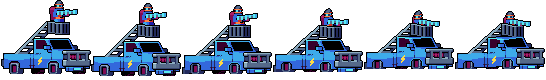
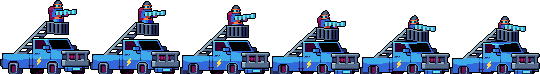
Fixed enemies spawn and animations

diff --git a/core/src/com/mygdx/game/animation/concrete/enemies/CarEnemyAnimator.java b/core/src/com/mygdx/game/animation/concrete/enemies/CarEnemyAnimator.java
@@ -1,57 +1,57 @@
-package com.mygdx.game.animation.concrete;
+package com.mygdx.game.animation.concrete.enemies;
 
 import com.badlogic.gdx.graphics.g2d.Animation;
 import com.mygdx.game.animation.base.AnimationBuilder;
 import com.mygdx.game.animation.base.AnimationsMap;
 import com.mygdx.game.utils.Assets;
 
-public class BatEnemyAnimator extends EnemyAnimator{
+public class CarEnemyAnimator extends EnemyAnimator{
     protected AnimationsMap createAnimationsMap() {
         AnimationsMap animations = new AnimationsMap();
-        animations.put(EnemyAnimator.State.IDLE, new AnimationBuilder(Assets.Textures.BAT_IDLE_SHEET)
+        animations.put(EnemyAnimator.State.IDLE, new AnimationBuilder(Assets.Textures.CAR_IDLE_SHEET)
                 .cols(4)
                 .rows(1)
                 .frameDuration(1 / 5f)
                 .playMode(Animation.PlayMode.LOOP_PINGPONG)
                 .build());
-        animations.put(EnemyAnimator.State.ATTACK_1, new AnimationBuilder(Assets.Textures.BAT_ATTACK1_SHEET)
-                .cols(6)
+        animations.put(EnemyAnimator.State.ATTACK_1, new AnimationBuilder(Assets.Textures.CAR_ATTACK1_SHEET)
+                .cols(4)
                 .rows(1)
                 .playMode(Animation.PlayMode.NORMAL)
                 .blocked(EnemyAnimator.State.WALK)
                 .priority(500)
                 .build());
-        animations.put(EnemyAnimator.State.ATTACK_2, new AnimationBuilder(Assets.Textures.BAT_ATTACK2_SHEET)
-                .cols(6)
+        animations.put(EnemyAnimator.State.ATTACK_2, new AnimationBuilder(Assets.Textures.CAR_ATTACK2_SHEET)
+                .cols(4)
                 .rows(1)
                 .playMode(Animation.PlayMode.NORMAL)
                 .blocked(EnemyAnimator.State.WALK)
                 .priority(500)
                 .build());
-        animations.put(EnemyAnimator.State.ATTACK_3, new AnimationBuilder(Assets.Textures.BAT_ATTACK3_SHEET)
-                .cols(5)
+        animations.put(EnemyAnimator.State.ATTACK_3, new AnimationBuilder(Assets.Textures.CAR_ATTACK3_SHEET)
+                .cols(4)
                 .rows(1)
                 .playMode(Animation.PlayMode.NORMAL)
                 .blocked(EnemyAnimator.State.WALK)
                 .priority(500)
                 .build());
-        animations.put(EnemyAnimator.State.HURT, new AnimationBuilder(Assets.Textures.BAT_HURT_SHEET)
+        animations.put(EnemyAnimator.State.HURT, new AnimationBuilder(Assets.Textures.CAR_HURT_SHEET)
                 .cols(2)
                 .rows(1)
                 .playMode(Animation.PlayMode.NORMAL)
                 .blocked(EnemyAnimator.State.WALK)
                 .highPriority()
                 .build());
-        animations.put(EnemyAnimator.State.DEATH, new AnimationBuilder(Assets.Textures.BAT_DEATH_SHEET)
+        animations.put(EnemyAnimator.State.DEATH, new AnimationBuilder(Assets.Textures.CAR_DEATH_SHEET)
                 .cols(6)
                 .rows(1)
                 .playMode(Animation.PlayMode.NORMAL)
                 .blocked()
                 .veryHighPriority()
                 .build());
-        animations.put(EnemyAnimator.State.WALK, new AnimationBuilder(Assets.Textures.BAT_WALK_SHEET)
-                .cols(6)
-                .rows(1)
+        animations.put(EnemyAnimator.State.WALK, new AnimationBuilder(Assets.Textures.CAR_WALK_SHEET)
+                .cols(2)
+                .rows(2)
                 .playMode(Animation.PlayMode.LOOP)
                 .build());
         animations.startAnimation = animations.get(EnemyAnimator.State.IDLE);

diff --git a/core/src/com/mygdx/game/animation/concrete/enemies/MonsterEnemyAnimator.java b/core/src/com/mygdx/game/animation/concrete/enemies/MonsterEnemyAnimator.java
@@ -1,56 +1,56 @@
-package com.mygdx.game.animation.concrete;
+package com.mygdx.game.animation.concrete.enemies;
 
 import com.badlogic.gdx.graphics.g2d.Animation;
 import com.mygdx.game.animation.base.AnimationBuilder;
 import com.mygdx.game.animation.base.AnimationsMap;
 import com.mygdx.game.utils.Assets;
 
-public class CarEnemyAnimator extends EnemyAnimator{
+public class MonsterEnemyAnimator extends EnemyAnimator{
     protected AnimationsMap createAnimationsMap() {
         AnimationsMap animations = new AnimationsMap();
-        animations.put(EnemyAnimator.State.IDLE, new AnimationBuilder(Assets.Textures.CAR_IDLE_SHEET)
+        animations.put(EnemyAnimator.State.IDLE, new AnimationBuilder(Assets.Textures.MONSTER_IDLE_SHEET)
                 .cols(4)
                 .rows(1)
                 .frameDuration(1 / 5f)
                 .playMode(Animation.PlayMode.LOOP_PINGPONG)
                 .build());
-        animations.put(EnemyAnimator.State.ATTACK_1, new AnimationBuilder(Assets.Textures.CAR_ATTACK1_SHEET)
-                .cols(4)
+        animations.put(EnemyAnimator.State.ATTACK_1, new AnimationBuilder(Assets.Textures.MONSTER_ATTACK1_SHEET)
+                .cols(6)
                 .rows(1)
                 .playMode(Animation.PlayMode.NORMAL)
                 .blocked(EnemyAnimator.State.WALK)
                 .priority(500)
                 .build());
-        animations.put(EnemyAnimator.State.ATTACK_2, new AnimationBuilder(Assets.Textures.CAR_ATTACK2_SHEET)
-                .cols(4)
+        animations.put(EnemyAnimator.State.ATTACK_2, new AnimationBuilder(Assets.Textures.MONSTER_ATTACK2_SHEET)
+                .cols(6)
                 .rows(1)
                 .playMode(Animation.PlayMode.NORMAL)
                 .blocked(EnemyAnimator.State.WALK)
                 .priority(500)
                 .build());
-        animations.put(EnemyAnimator.State.ATTACK_3, new AnimationBuilder(Assets.Textures.CAR_ATTACK3_SHEET)
-                .cols(4)
+        animations.put(EnemyAnimator.State.ATTACK_3, new AnimationBuilder(Assets.Textures.MONSTER_ATTACK3_SHEET)
+                .cols(5)
                 .rows(1)
                 .playMode(Animation.PlayMode.NORMAL)
                 .blocked(EnemyAnimator.State.WALK)
                 .priority(500)
                 .build());
-        animations.put(EnemyAnimator.State.HURT, new AnimationBuilder(Assets.Textures.CAR_HURT_SHEET)
+        animations.put(EnemyAnimator.State.HURT, new AnimationBuilder(Assets.Textures.MONSTER_HURT_SHEET)
                 .cols(2)
                 .rows(1)
                 .playMode(Animation.PlayMode.NORMAL)
                 .blocked(EnemyAnimator.State.WALK)
                 .highPriority()
                 .build());
-        animations.put(EnemyAnimator.State.DEATH, new AnimationBuilder(Assets.Textures.CAR_DEATH_SHEET)
+        animations.put(EnemyAnimator.State.DEATH, new AnimationBuilder(Assets.Textures.MONSTER_DEATH_SHEET)
                 .cols(6)
                 .rows(1)
                 .playMode(Animation.PlayMode.NORMAL)
                 .blocked()
                 .veryHighPriority()
                 .build());
-        animations.put(EnemyAnimator.State.WALK, new AnimationBuilder(Assets.Textures.CAR_WALK_SHEET)
-                .cols(4)
+        animations.put(EnemyAnimator.State.WALK, new AnimationBuilder(Assets.Textures.MONSTER_WALK_SHEET)
+                .cols(6)
                 .rows(1)
                 .playMode(Animation.PlayMode.LOOP)
                 .build());

diff --git a/core/src/com/mygdx/game/animation/concrete/enemies/BatEnemyAnimator.java b/core/src/com/mygdx/game/animation/concrete/enemies/BatEnemyAnimator.java
@@ -1,55 +1,55 @@
-package com.mygdx.game.animation.concrete;
+package com.mygdx.game.animation.concrete.enemies;
 
 import com.badlogic.gdx.graphics.g2d.Animation;
 import com.mygdx.game.animation.base.AnimationBuilder;
 import com.mygdx.game.animation.base.AnimationsMap;
 import com.mygdx.game.utils.Assets;
 
-public class MonsterEnemyAnimator extends EnemyAnimator{
+public class BatEnemyAnimator extends EnemyAnimator{
     protected AnimationsMap createAnimationsMap() {
         AnimationsMap animations = new AnimationsMap();
-        animations.put(EnemyAnimator.State.IDLE, new AnimationBuilder(Assets.Textures.MONSTER_IDLE_SHEET)
+        animations.put(EnemyAnimator.State.IDLE, new AnimationBuilder(Assets.Textures.BAT_IDLE_SHEET)
                 .cols(4)
                 .rows(1)
                 .frameDuration(1 / 5f)
                 .playMode(Animation.PlayMode.LOOP_PINGPONG)
                 .build());
-        animations.put(EnemyAnimator.State.ATTACK_1, new AnimationBuilder(Assets.Textures.MONSTER_ATTACK1_SHEET)
+        animations.put(EnemyAnimator.State.ATTACK_1, new AnimationBuilder(Assets.Textures.BAT_ATTACK1_SHEET)
                 .cols(6)
                 .rows(1)
                 .playMode(Animation.PlayMode.NORMAL)
                 .blocked(EnemyAnimator.State.WALK)
                 .priority(500)
                 .build());
-        animations.put(EnemyAnimator.State.ATTACK_2, new AnimationBuilder(Assets.Textures.MONSTER_ATTACK2_SHEET)
+        animations.put(EnemyAnimator.State.ATTACK_2, new AnimationBuilder(Assets.Textures.BAT_ATTACK2_SHEET)
                 .cols(6)
                 .rows(1)
                 .playMode(Animation.PlayMode.NORMAL)
                 .blocked(EnemyAnimator.State.WALK)
                 .priority(500)
                 .build());
-        animations.put(EnemyAnimator.State.ATTACK_3, new AnimationBuilder(Assets.Textures.MONSTER_ATTACK3_SHEET)
+        animations.put(EnemyAnimator.State.ATTACK_3, new AnimationBuilder(Assets.Textures.BAT_ATTACK3_SHEET)
                 .cols(5)
                 .rows(1)
                 .playMode(Animation.PlayMode.NORMAL)
                 .blocked(EnemyAnimator.State.WALK)
                 .priority(500)
                 .build());
-        animations.put(EnemyAnimator.State.HURT, new AnimationBuilder(Assets.Textures.MONSTER_HURT_SHEET)
+        animations.put(EnemyAnimator.State.HURT, new AnimationBuilder(Assets.Textures.BAT_HURT_SHEET)
                 .cols(2)
                 .rows(1)
                 .playMode(Animation.PlayMode.NORMAL)
                 .blocked(EnemyAnimator.State.WALK)
                 .highPriority()
                 .build());
-        animations.put(EnemyAnimator.State.DEATH, new AnimationBuilder(Assets.Textures.MONSTER_DEATH_SHEET)
+        animations.put(EnemyAnimator.State.DEATH, new AnimationBuilder(Assets.Textures.BAT_DEATH_SHEET)
                 .cols(6)
                 .rows(1)
                 .playMode(Animation.PlayMode.NORMAL)
                 .blocked()
                 .veryHighPriority()
                 .build());
-        animations.put(EnemyAnimator.State.WALK, new AnimationBuilder(Assets.Textures.MONSTER_WALK_SHEET)
+        animations.put(EnemyAnimator.State.WALK, new AnimationBuilder(Assets.Textures.BAT_WALK_SHEET)
                 .cols(6)
                 .rows(1)
                 .playMode(Animation.PlayMode.LOOP)

diff --git a/core/src/com/mygdx/game/entities/enemies/Enemy.java b/core/src/com/mygdx/game/entities/enemies/Enemy.java
@@ -4,7 +4,7 @@ import com.badlogic.gdx.math.Rectangle;
 import com.badlogic.gdx.math.Vector2;
 import com.mygdx.game.MyGdxGame;
 import com.mygdx.game.animation.base.Animator;
-import com.mygdx.game.animation.concrete.EnemyAnimator;
+import com.mygdx.game.animation.concrete.enemies.EnemyAnimator;
 import com.mygdx.game.entities.MortalEntity;
 import com.mygdx.game.entities.attacks.concrete.EnemyAttack;
 import com.mygdx.game.entities.heroes.Hero;
@@ -22,6 +22,9 @@ import com.mygdx.game.physics.ColliderCreator;
 import com.mygdx.game.utils.DelayedAction;
 
 public abstract class Enemy extends MortalEntity<ResourcesManager> implements ProjectileCollidable {
+    //for 1x1 size
+    private static final float BASE_DENSITY = 10f;
+
     private final Hero player;
     protected final GroundEnemyMovementController movementController;
     protected EnemyAttack attack;
@@ -43,7 +46,8 @@ public abstract class Enemy extends MortalEntity<ResourcesManager> implements Pr
         Rectangle spawnPointInWorldCoordinates = level.getCoordinatesProjector().unproject(enemyData.getSpawnPoint());
         Rectangle travelAreaInWorldCoordinates = level.getCoordinatesProjector().unproject(enemyData.getTravelArea());
         Collider collider = ColliderCreator.create(spawnPointInWorldCoordinates.x, spawnPointInWorldCoordinates.y, width, height);
-        body = BodyCreator.createDynamicBody(level.world, collider, 0.3f, 5, 0);
+        float density = BASE_DENSITY / (width * height);
+        body = BodyCreator.createDynamicBody(level.world, collider, 0.3f, density, 0);
         body.setFixedRotation(true);
         body.getFixtureList().first().setUserData(this);
 

diff --git a/core/src/com/mygdx/game/map/MapObjectsBinder.java b/core/src/com/mygdx/game/map/MapObjectsBinder.java
@@ -85,17 +85,14 @@ public class MapObjectsBinder {
         objectsParser.getEnemiesData().forEach(enemyData -> {
             Enemy enemy;
             switch (enemyData.getType()) {
-                case DEFAULT -> {
-                    enemy = new MonsterEnemy(level, enemyData, 1.5f, 2f);
-                }
                 case MONSTER -> {
                     enemy = new MonsterEnemy(level, enemyData, 1.5f, 2f);
                 }
                 case BAT -> {
-                    enemy = new BatEnemy(level, enemyData, 1.5f, 2f);
+                    enemy = new BatEnemy(level, enemyData, 1.25f, 1.75f);
                 }
                 case CAR -> {
-                    enemy = new CarEnemy(level, enemyData, 1.5f, 2f);
+                    enemy = new CarEnemy(level, enemyData, 3f, 2.5f);
                 }
                 default -> throw new RuntimeException("Not supported enemy type!");
             }

diff --git a/core/src/com/mygdx/game/animation/concrete/heroes/PunkHeroAnimator.java b/core/src/com/mygdx/game/animation/concrete/heroes/PunkHeroAnimator.java
@@ -78,10 +78,11 @@ public class PunkHeroAnimator extends HeroAnimator {
                 .priority(500)
                 .build());
         animations.put(State.DEATH, new AnimationBuilder(Assets.Textures.PUNK_DEATH_SHEET)
-                .cols(3)
-                .rows(2)
+                .cols(7)
+                .rows(1)
                 .playMode(Animation.PlayMode.NORMAL)
                 .blocked()
+                .frameDuration(1 / 12f)
                 .veryHighPriority()
                 .build());
         animations.startAnimation = animations.get(State.IDLE);

diff --git a/core/src/com/mygdx/game/map/XMLLevelObjectsParser.java b/core/src/com/mygdx/game/map/XMLLevelObjectsParser.java
@@ -171,7 +171,7 @@ public class XMLLevelObjectsParser {
     private void parseEnemiesObjectGroups(Element group) {
         NodeList objectGroups = group.getElementsByTagName("objectgroup");
         for (int i = 0; i < objectGroups.getLength(); i++) {
-            Element objectGroup = (Element) objectGroups.item(0);
+            Element objectGroup = (Element) objectGroups.item(i);
             enemiesData.add(parseEnemy(objectGroup));
         }
     }

diff --git a/core/src/com/mygdx/game/entities/enemies/MonsterEnemy.java b/core/src/com/mygdx/game/entities/enemies/MonsterEnemy.java
@@ -1,8 +1,7 @@
 package com.mygdx.game.entities.enemies;
 
 import com.mygdx.game.animation.base.Animator;
-import com.mygdx.game.animation.concrete.CarEnemyAnimator;
-import com.mygdx.game.animation.concrete.MonsterEnemyAnimator;
+import com.mygdx.game.animation.concrete.enemies.MonsterEnemyAnimator;
 import com.mygdx.game.levels.Level;
 import com.mygdx.game.entities.attacks.concrete.EnemyAttack;
 import com.mygdx.game.map.data.EnemyData;

diff --git a/core/src/com/mygdx/game/entities/enemies/BatEnemy.java b/core/src/com/mygdx/game/entities/enemies/BatEnemy.java
@@ -1,7 +1,7 @@
 package com.mygdx.game.entities.enemies;
 
 import com.mygdx.game.animation.base.Animator;
-import com.mygdx.game.animation.concrete.BatEnemyAnimator;
+import com.mygdx.game.animation.concrete.enemies.BatEnemyAnimator;
 import com.mygdx.game.levels.Level;
 import com.mygdx.game.entities.attacks.concrete.EnemyAttack;
 import com.mygdx.game.map.data.EnemyData;

diff --git a/core/src/com/mygdx/game/entities/enemies/CarEnemy.java b/core/src/com/mygdx/game/entities/enemies/CarEnemy.java
@@ -1,7 +1,7 @@
 package com.mygdx.game.entities.enemies;
 
 import com.mygdx.game.animation.base.Animator;
-import com.mygdx.game.animation.concrete.CarEnemyAnimator;
+import com.mygdx.game.animation.concrete.enemies.CarEnemyAnimator;
 import com.mygdx.game.levels.Level;
 import com.mygdx.game.entities.attacks.concrete.EnemyAttack;
 import com.mygdx.game.map.data.EnemyData;

diff --git a/core/src/com/mygdx/game/map/data/EnemyData.java b/core/src/com/mygdx/game/map/data/EnemyData.java
@@ -4,7 +4,6 @@ import com.badlogic.gdx.math.Rectangle;
 
 public class EnemyData {
     public enum Type {
-        DEFAULT,
         MONSTER,
         CAR,
         BAT,

diff --git a/core/src/com/mygdx/game/animation/concrete/enemies/EnemyAnimator.java b/core/src/com/mygdx/game/animation/concrete/enemies/EnemyAnimator.java
@@ -1,4 +1,4 @@
-package com.mygdx.game.animation.concrete;
+package com.mygdx.game.animation.concrete.enemies;
 
 
 import com.mygdx.game.animation.base.AnimationsMap;
